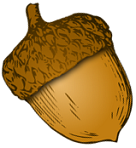
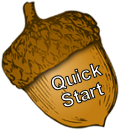
Completed homepage Added Summary for 5_Nuts for "Go Nuts" Trail

diff --git a/index.md b/index.md
@@ -13,8 +13,7 @@ tags:           Welcome, Squirrel University
 
 <br>
 
-<p style="font-family: Optima; font-size: 20px; text-align: center;">SQUIRRELS!<br>
-    Right from your own CUBE.
+<p style="font-family: Optima; font-size: 20px; text-align: center;">Welcome to Squirrel University! Here you will find everything you need to know about developing at Squirrel Works!<br>
 </p>
 
 <br>
@@ -32,8 +31,8 @@ tags:           Welcome, Squirrel University
 </div>
 
 <div class="col-sm-12 col-md-6 col-lg-4 trail" style="padding: 20px 20px 0px 5px;">
-	<a href="{{ site.github.url }}/1_SquirrelU/5_Nuts/1_Acorn/0_Summary/">
-		<img src="images/Acorn1.png" alt="Acorn Info"></a>
+	<a href="{{ site.github.url }}/1_SquirrelU/5_Nuts/0_Summary/">
+		<img src="images/Acorn3.png" alt="Acorn Info"></a>
 </div>
 
 </div>

diff --git a/1_SquirrelU/5_Nuts/0_Summary.md b/1_SquirrelU/5_Nuts/0_Summary.md
@@ -1,0 +1,5 @@
+---
+layout:         summary
+title:          "Nuts"
+breadcrumb:     "Summary"  
+---
